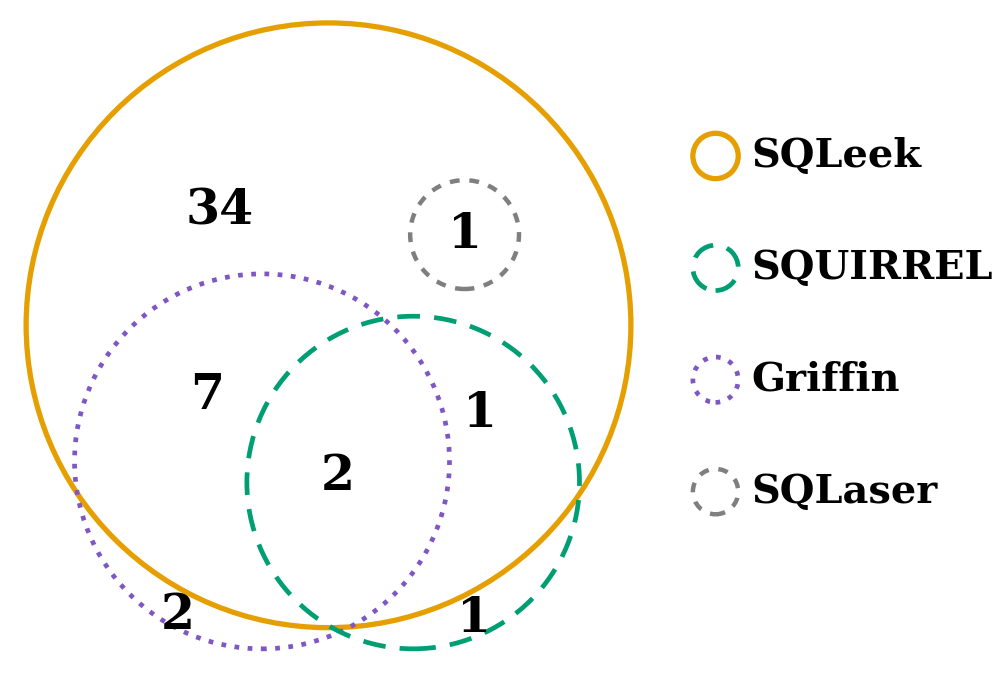
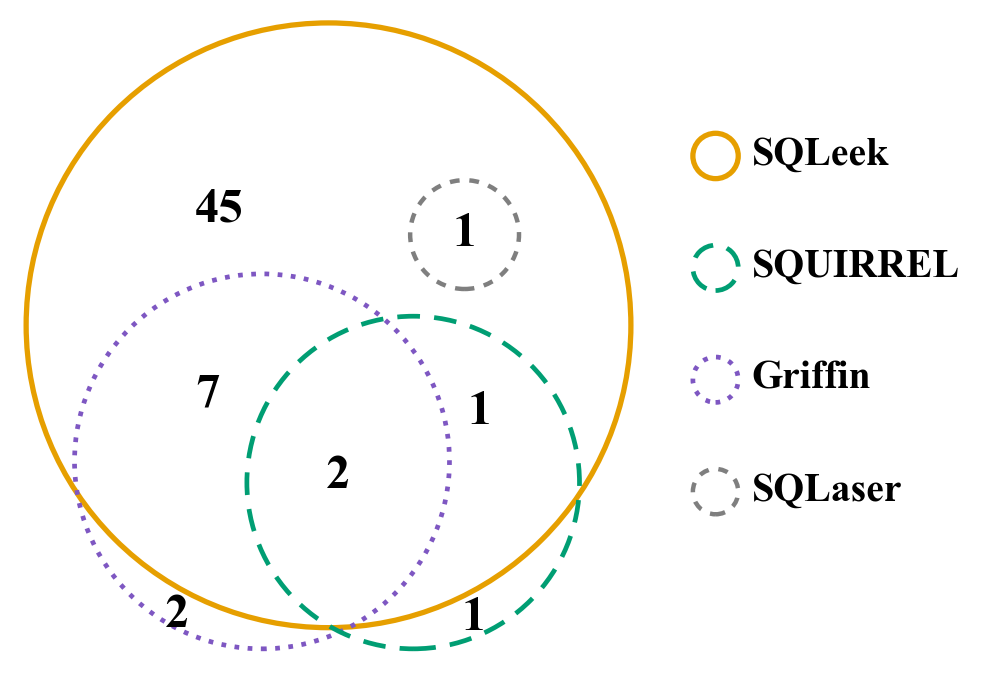
vn

diff --git a/experiment/RQ3/result/figures/venn/plot_rq2_bug_overlap.py b/experiment/RQ3/result/figures/venn/plot_rq2_bug_overlap.py
@@ -102,7 +102,7 @@ def main():
     # SQLeek only; SQLaser∩SQLeek; SQUIRREL∩SQLeek only;
     # SQUIRREL∩Griffin∩SQLeek; Griffin∩SQLeek only;
     # SQUIRREL only; Griffin only.
-    add_count(ax, -0.36, 0.38, 34)
+    add_count(ax, -0.36, 0.38, 45)
     add_count(ax, 0.45, 0.30, 1)
     add_count(ax, 0.50, -0.29, 1)
     add_count(ax, 0.03, -0.50, 2)
